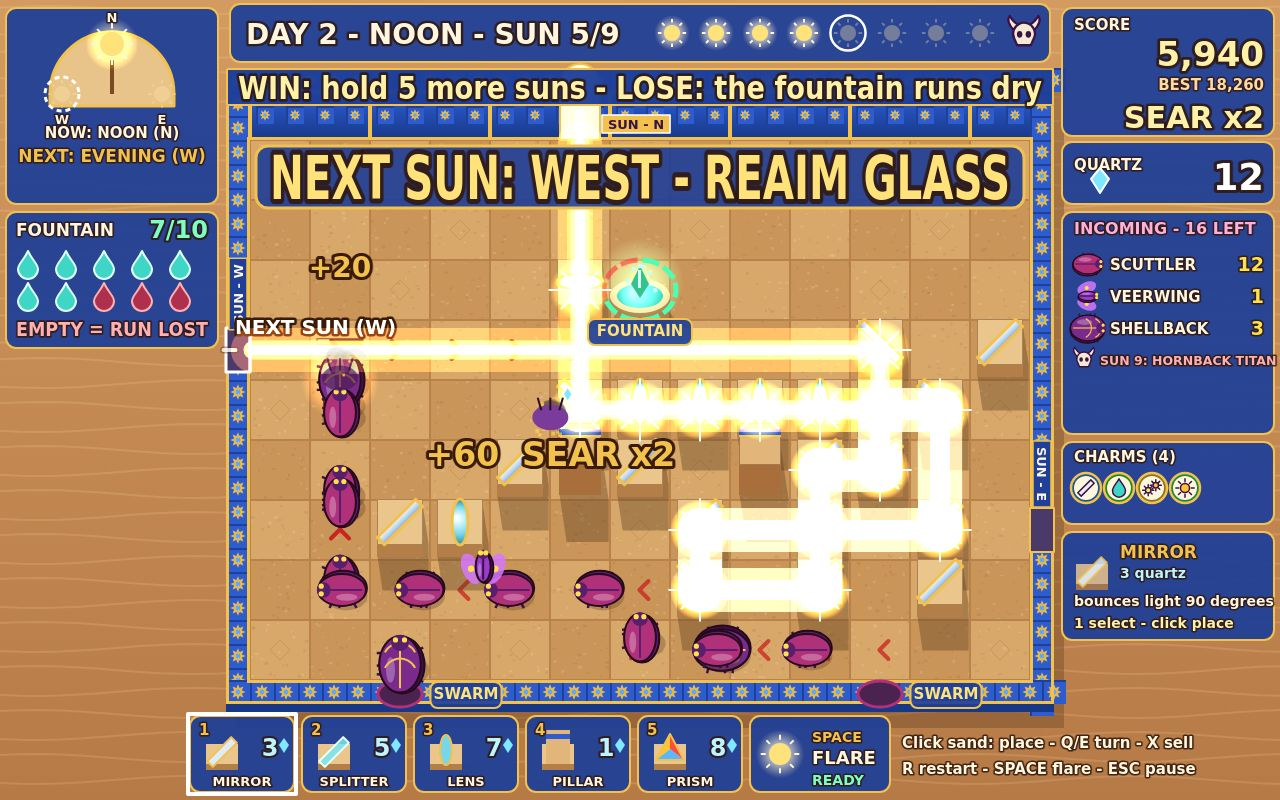
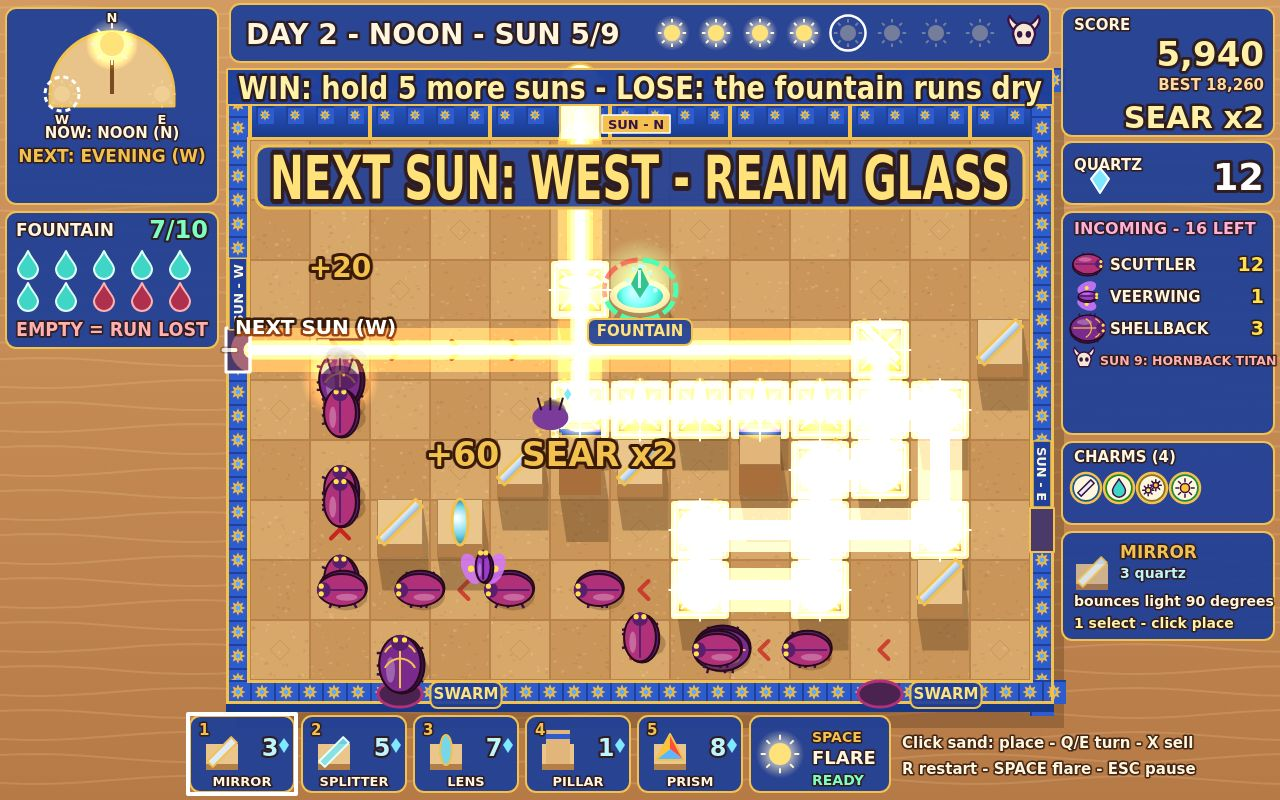
Cover plan marks: glass the current sun lights gets a white rim and glow, glass only the next sun reaches gets a dashed gold outline and its wall letter; staging prune behind STAGE_PRUNE=1 (no winning seed yet); defeat title fits after the overlay shows

diff --git a/game/src/render/board.js b/game/src/render/board.js
@@ -445,11 +445,45 @@ export function drawPiece(ctx, piece, c, r, shadow, time, alpha = 1) {
   ctx.restore();
 }
 
-export function drawPieces(ctx, grid, shadow, time) {
+/**
+ * Draw every piece. Glass the current light reaches gets a white rim and glow; glass only the
+ * next sun will reach gets a dashed gold outline tagged with that sun's wall letter.
+ */
+export function drawPieces(ctx, grid, shadow, time, lit = null, next = null) {
   for (let r = 0; r < grid.rows; r++) {
     for (let c = 0; c < grid.cols; c++) {
-      const p = grid.pieces[r * grid.cols + c];
-      if (p) drawPiece(ctx, p, c, r, shadow, time);
+      const i = r * grid.cols + c;
+      const p = grid.pieces[i];
+      if (!p) continue;
+      drawPiece(ctx, p, c, r, shadow, time);
+      if (!lit || p.type === 'pillar') continue;
+      const x = BOARD_X + c * CELL;
+      const y = BOARD_Y + r * CELL;
+      if (lit[i] > 0) {
+        ctx.save();
+        ctx.globalCompositeOperation = 'lighter';
+        ctx.strokeStyle = 'rgba(255,240,190,0.55)';
+        ctx.lineWidth = 8;
+        ctx.strokeRect(x + 5, y + 5, CELL - 10, CELL - 10);
+        ctx.restore();
+        ctx.strokeStyle = '#FFFFFF';
+        ctx.lineWidth = 2.5;
+        ctx.strokeRect(x + 5, y + 5, CELL - 10, CELL - 10);
+      } else if (next && next.lit[i] > 0) {
+        ctx.setLineDash([7, 5]);
+        ctx.strokeStyle = PALETTE.gold;
+        ctx.lineWidth = 3;
+        ctx.strokeRect(x + 5, y + 5, CELL - 10, CELL - 10);
+        ctx.setLineDash([]);
+        ctx.fillStyle = PALETTE.gold;
+        ctx.beginPath();
+        ctx.arc(x + CELL - 10, y + 10, 10, 0, Math.PI * 2);
+        ctx.fill();
+        ctx.fillStyle = '#3B1247';
+        ctx.font = '900 13px system-ui, sans-serif';
+        ctx.textAlign = 'center';
+        ctx.fillText(next.wall, x + CELL - 10, y + 15);
+      }
     }
   }
 }

diff --git a/game/src/render/scene.js b/game/src/render/scene.js
@@ -65,7 +65,9 @@ export function drawFrame(ctx, frame) {
   drawCourtyard(ctx, run, time, !!frame.titleTraces);
   if (frame.showHud && (phase === 'build' || phase === 'wave')) drawMarchLines(ctx, run, time);
   const shadow = shadowVectorFor(run.aperture.wall);
-  drawPieces(ctx, run.grid, shadow, time);
+  const showPlan = frame.showHud && (phase === 'wave' || phase === 'build');
+  const next = showPlan && run.waveIndex + 1 < WAVE_COUNT ? nextSunTrace(run) : null;
+  drawPieces(ctx, run.grid, shadow, time, showPlan ? run.trace.lit : null, next && { lit: next.trace.lit, wall: next.wall });
   drawShrine(ctx, run, shadow, time, frame.shrineHurtAgo ?? 9);
   if (ui.ghost) {
     drawPiece(ctx, ui.ghost.piece, ui.ghost.c, ui.ghost.r, shadow, time, 0.55);

diff --git a/game/src/ui/menus.js b/game/src/ui/menus.js
@@ -114,7 +114,7 @@ export function showResults(menus, run, record, history) {
   el('results-screen').classList.toggle('lost', !won);
   const title = el('results-title');
   title.textContent = won ? RESULT_WIN_TITLE : RESULT_LOSE_TITLE;
-  title.style.setProperty('--fit', String(Math.min(1, 1180 / title.offsetWidth)));
+  requestAnimationFrame(() => title.style.setProperty('--fit', String(Math.min(1, 1180 / title.offsetWidth))));
   el('results-sub').textContent = won
     ? `Courtyard held - ${run.stats.wavesCleared}/${WAVE_COUNT} ${NAMES.suns.toLowerCase()}`
     : `Fell on Day ${run.aperture.day} ${run.aperture.phase.name.toLowerCase()} - ${run.stats.wavesCleared}/${WAVE_COUNT} ${NAMES.suns.toLowerCase()}`;

diff --git a/NOTES.md b/NOTES.md
@@ -121,6 +121,12 @@
   spot round the basin clear of beam cores and beetles) drawn last as lapis plaques; the test hook
   measures tag overlaps and check-shot-truth asserts none.
 
+- Benchmark 3 item 3 (part): glass lit by the current sun gets a white rim + glow, glass only the
+  next sun reaches gets a dashed gold outline + its wall letter (W). Staging prune (swap stray panes
+  for pillars before the cover, restore after) exists behind STAGE_PRUNE=1 but no seed wins with it
+  yet, so the cover's solved-plan ratio is reported, not enforced. Defeat title fit now measured
+  after the overlay shows (it overflowed before).
+
 ## Next
 - M3 feel (rest): hit-stop-like pop on SEAR steps, fountain pip crack, quartz counter pulse,
   colour-blind beam patterns (option), How to play illustrated panels.
